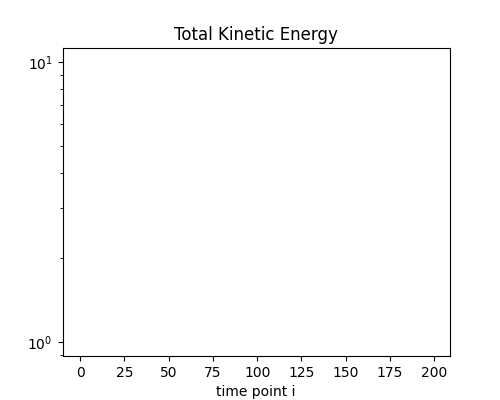
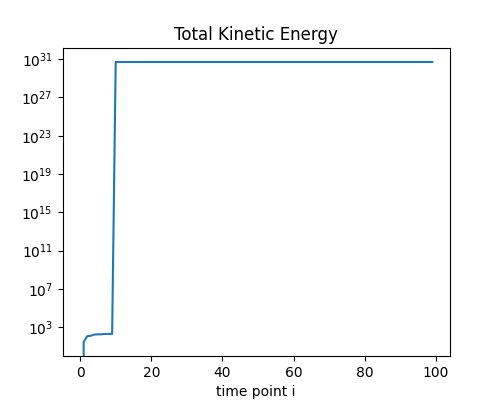
blabla
blabla

diff --git a/main.py b/main.py
@@ -14,7 +14,7 @@ Ag_m = 6.6335209e-26  # [kg]  Atomic mass of Argon
 # Simulation parameters:
 N_particles = 3 ** 3  # [-]   Amount of particles
 h = 0.01  # [-]   Time step
-N_time = 200  # [-]   Number of time steps
+N_time = 100  # [-]   Number of time steps
 box_L = 30  # [-]   *sigma Length of box
 # grid (0), random distribution (1), two particles (2)
 test_state = 0
@@ -41,21 +41,22 @@ def mic(x1, x2, y1, y2, z1, z2):
     convention is applied, returning the closest x,y,z coordinates."""
     x_close, y_close, z_close = x2, y2, z2
 
-    x_close = (x2 - x1 + box_L / 2) % box_L - box_L / 2
-    y_close = (y2 - y1 + box_L / 2) % box_L - box_L / 2
-    z_close = (z2 - z1 + box_L / 2) % box_L - box_L / 2
-    # if x2 - x1 > box_L / 2:
-    #     x_close = x2 - box_L
-    # if x2 - x1 <= -box_L / 2:
-    #     x_close = x2 + box_L
-    # if y2 - y1 > box_L / 2:
-    #     y_close = y2 - box_L
-    # if y2 - y1 <= -box_L / 2:
-    #     y_close = y2 + box_L
-    # if z2 - z1 > box_L / 2:
-    #     z_close = z2 - box_L
-    # if z2 - z1 <= -box_L / 2:
-    #     z_close = z2 + box_L
+    # test_x_close = (x2 - x1 + box_L / 2) % box_L - box_L / 2
+    # test_y_close = (y2 - y1 + box_L / 2) % box_L - box_L / 2
+    # test_z_close = (z2 - z1 + box_L / 2) % box_L - box_L / 2
+
+    if x2 - x1 > box_L / 2:
+        x_close = x2 - box_L
+    elif x2 - x1 <= -box_L / 2:
+        x_close = x2 + box_L
+    if y2 - y1 > box_L / 2:
+        y_close = y2 - box_L
+    elif y2 - y1 <= -box_L / 2:
+        y_close = y2 + box_L
+    if z2 - z1 > box_L / 2:
+        z_close = z2 - box_L
+    elif z2 - z1 <= -box_L / 2:
+        z_close = z2 + box_L
     return x_close, y_close, z_close
 
 
